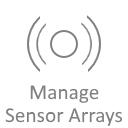
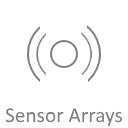
Redesign admin panel

diff --git a/static/css/main.css b/static/css/main.css
@@ -102,6 +102,10 @@ div #div_prompt {
 #div_prompt input[type='checkbox'], #div_prompt div {
 	margin-top: 6px;
 }
+#div_admin_links img {
+	display: inline-block;
+	margin: 16px calc(8.25% - 16px);
+}
 img[src*="../static/img/remove.png"] {
 	filter: opacity(0.5);
 }

diff --git a/includes/elements/Panels/AdminLinks.php b/includes/elements/Panels/AdminLinks.php
@@ -1,34 +1,23 @@
-<div class="grid-item"><div>
+<div id="div_admin_links" class="grid-item"><div>
 	<h1>Admin</h1>
 
 	<a href="../admin/systems">
-		<div style="display: inline-block; width: 128px; height: 128px; padding: 16px">
-			<img src="../static/img/tile_manage_systems.png">
-		</div>
+		<img src="../static/img/tile_manage_systems.png">
 	</a>
 
 	<a href="../admin/arrays">
-		<div style="display: inline-block; width: 128px; height: 128px; padding: 16px">
-			<img src="../static/img/tile_manage_sensor_arrays.png">
-		</div>
+		<img src="../static/img/tile_manage_sensor_arrays.png">
 	</a>
 	
 	<a href="../admin/sensors">
-		<div style="display: inline-block; width: 128px; height: 128px; padding: 16px">
-			<img src="../static/img/tile_manage_sensors.png">
-		</div>
+		<img src="../static/img/tile_manage_sensors.png">
 	</a>
 
 	<a href="../admin/users">
-		<div style="display: inline-block; width: 128px; height: 128px; padding: 16px">
-			<img src="../static/img/tile_manage_users.png">
-		</div>
+		<img src="../static/img/tile_manage_users.png">
 	</a>
 
 	<a href="../admin/modules">
-		<div style="display: inline-block; width: 128px; height: 128px; padding: 16px">
-			<img src="../static/img/tile_modules.png">
-		</div>
+		<img src="../static/img/tile_modules.png">
 	</a>
-	
 </div></div>
